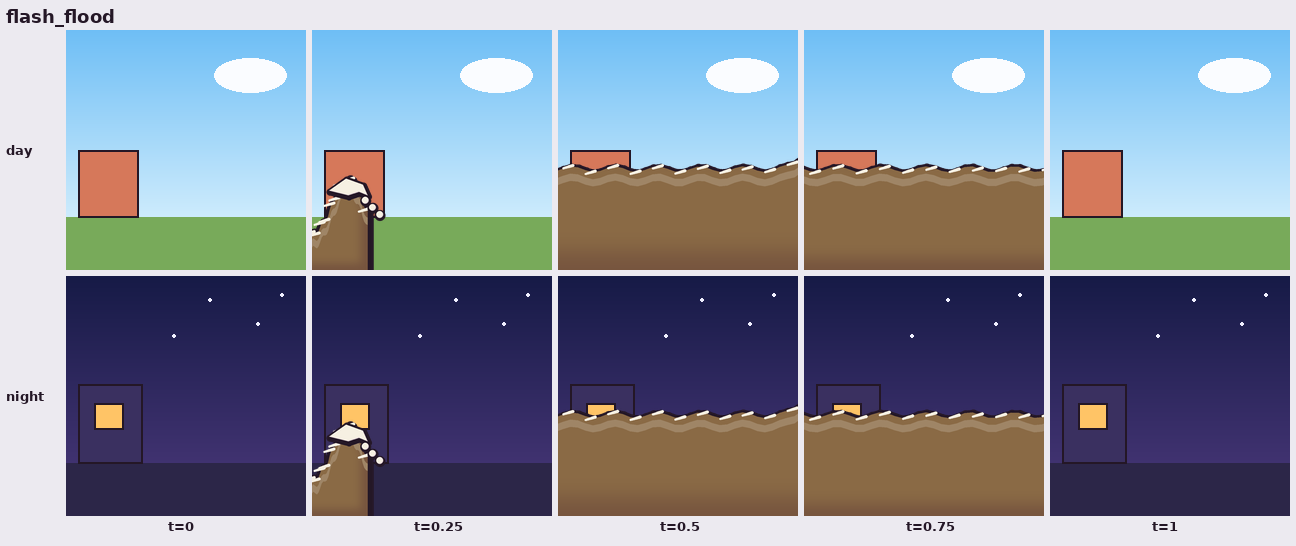
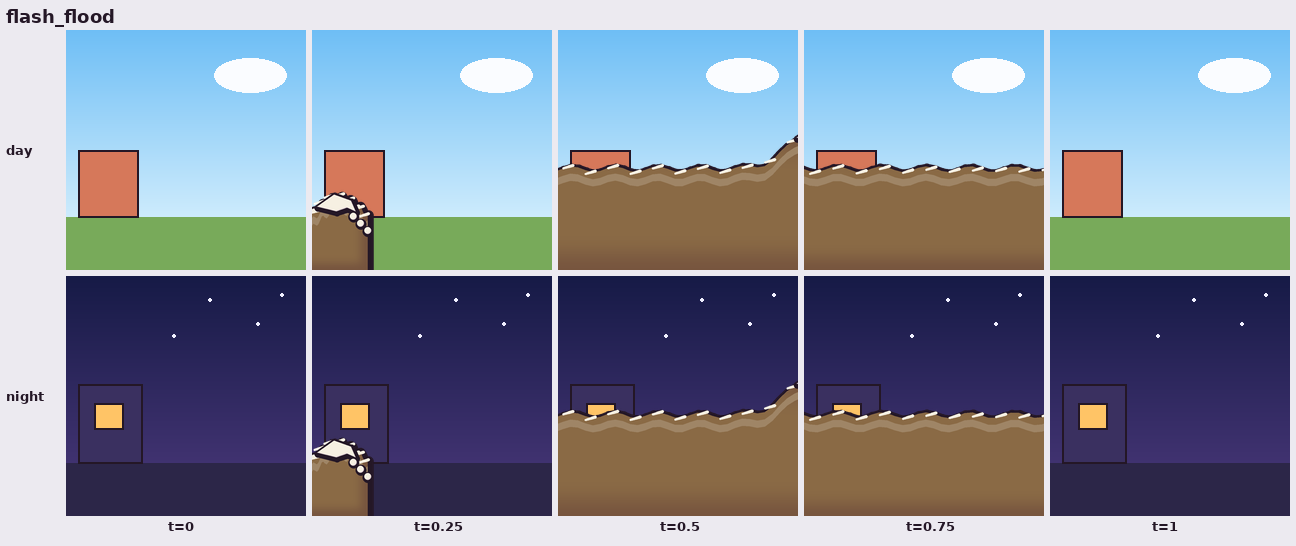
fx: wider flood crest, gps rings pop off cleanly

diff --git a/fx/fx.py b/fx/fx.py
@@ -1218,7 +1218,7 @@ def fx_gps_ping(t, n, u, e, kw):
             p = seg(t, st, st + 0.36)
             if not 0 < p < 1: continue
             rr = u * (0.15 + 0.85 * out_cubic(p)); w = u * 0.085 * (1 - 0.5 * smooth(p)) * (1 - 0.2 * r_i) * (1 - smooth(seg(p, 0.8, 1.0)))
-            if w > 0.6: shapes.append(('s', [(cx + rr * math.cos(a), cy + rr * math.sin(a), w) for a in (2 * math.pi * j / 64 for j in range(65))], col))
+            if w > u * 0.025: shapes.append(('s', [(cx + rr * math.cos(a), cy + rr * math.sin(a), w) for a in (2 * math.pi * j / 64 for j in range(65))], col))
     dot = u * 0.16 * k * (1 + 0.12 * math.sin(t * 2 * math.pi * 4) * bump(seg(t, 0.25, 0.8)))
     im = new(n)
     if shapes: comp(im, group(n, shapes, e * 0.8, shade=False, alpha=fade(t, 0.92, 1.0)))
@@ -1296,14 +1296,14 @@ def fx_flash_flood(t, n, u, e, kw):
     X = (lambda x: x) if sgn > 0 else (lambda x: n - x)
     front = lerp(-0.2 * n, 1.25 * n, smooth(seg(t, 0.08, 0.55)))
     level = n * (1 - 0.42 * smooth(seg(t, 0.1, 0.5)) + 0.42 * smooth(seg(t, 0.78, 0.98)))   # water surface y
-    crest = n * 0.24 * (smooth(seg(t, 0.08, 0.2)) * (1 - smooth(seg(t, 0.5, 0.75))))
+    crest = n * 0.17 * (smooth(seg(t, 0.08, 0.2)) * (1 - smooth(seg(t, 0.5, 0.75))))
     trickle = bump(seg(t, 0.0, 0.12))                                       # anticipation: a thin trickle first
     surf, foam = [], []
     m = 40
     for j in range(m + 1):
         x = -10 + (front + 10) * j / m
         dist = (front - x) / n
-        hump = crest * math.exp(-((dist - 0.08) / 0.09) ** 2)                 # the tall wave just behind the front
+        hump = crest * math.exp(-((dist - 0.12) / 0.16) ** 2)                 # the tall wave just behind the front
         y = level - hump + n * 0.012 * math.sin(j * 1.1 + t * 40)
         surf.append((X(x), y))
     shapes, det = [], []
@@ -1314,7 +1314,7 @@ def fx_flash_flood(t, n, u, e, kw):
             x, y = surf[j]
             det.append(('s', [(x - sgn * n * 0.03, y + n * 0.008, n * 0.008), (x + sgn * n * 0.01, y - n * 0.004, n * 0.012)], FOAM))
         if crest > 1:                                                        # a curling white lip over the wave front
-            k_ = min(1, crest / (n * 0.08)); top_y = level - crest * 0.95; cxp = front - n * 0.07
+            k_ = min(1, crest / (n * 0.08)); top_y = level - crest * 0.95; cxp = front - n * 0.12
             lip = [(X(cxp - n * 0.09 * k_), top_y + n * 0.03), (X(cxp - n * 0.02), top_y - n * 0.02 * k_), (X(cxp + n * 0.05 * k_), top_y + n * 0.005),
                    (X(cxp + n * 0.07 * k_), top_y + n * 0.05 * k_), (X(cxp + n * 0.035 * k_), top_y + n * 0.035 * k_), (X(cxp - n * 0.01), top_y + n * 0.05)]
             foam.append(('p', lip, FOAM))
